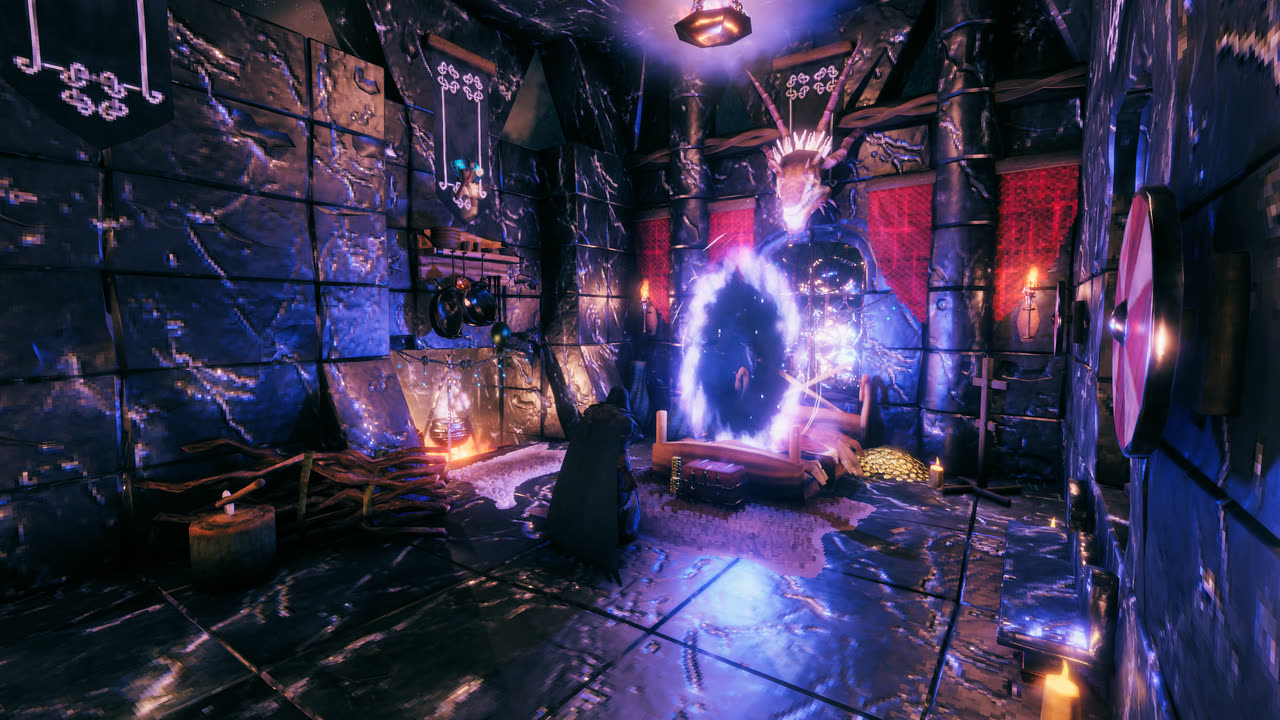
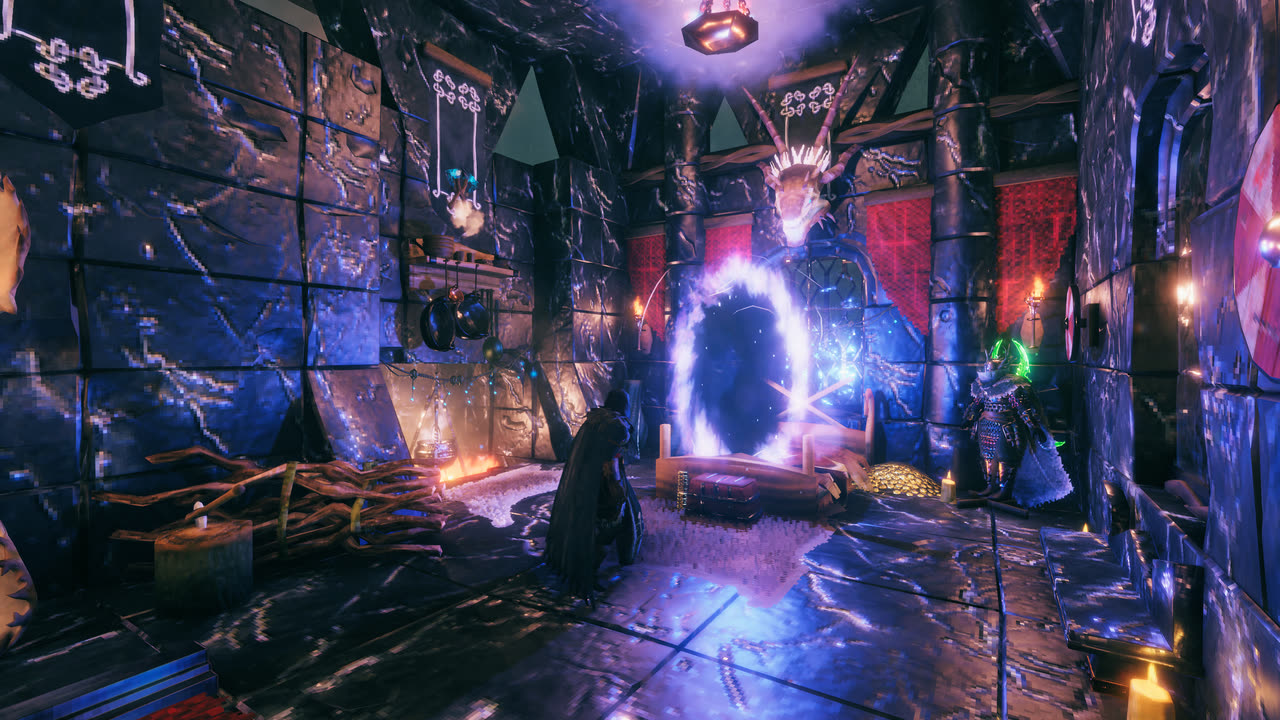
Hearth Portal: 10 s grace after getting up or respawning (3 s after arriving); new bed screenshot

diff --git a/Items/TownPortal.cs b/Items/TownPortal.cs
@@ -372,6 +372,8 @@ namespace MysticalWeapons.Items
         private const float BedReach = 0.9f;
         /// <summary>Seconds after arriving before any portal fires again.</summary>
         private const float ArrivalGrace = 3f;
+        /// <summary>The same after getting out of bed or up from a seat, or respawning: getting up from sleep alone takes ~3 s.</summary>
+        private const float GetUpGrace = 10f;
 
         private static float _graceUntil;
         private static Player _lastPlayer;
@@ -422,8 +424,8 @@ namespace MysticalWeapons.Items
             _inside = inside;
             // Arriving, lying in bed or sitting, or a new body after respawning: getting up next to a portal at your bed
             // isn't stepping into it
-            if (player.IsTeleporting() || player.InBed() || player.IsAttached() || player != _lastPlayer)
-                _graceUntil = Time.time + ArrivalGrace;
+            if (player.InBed() || player.IsAttached() || player != _lastPlayer) _graceUntil = Time.time + GetUpGrace;
+            else if (player.IsTeleporting()) _graceUntil = Mathf.Max(_graceUntil, Time.time + ArrivalGrace);
             _lastPlayer = player;
             if (!entered || player.IsDead()) return;
             if (Time.time < _graceUntil)
